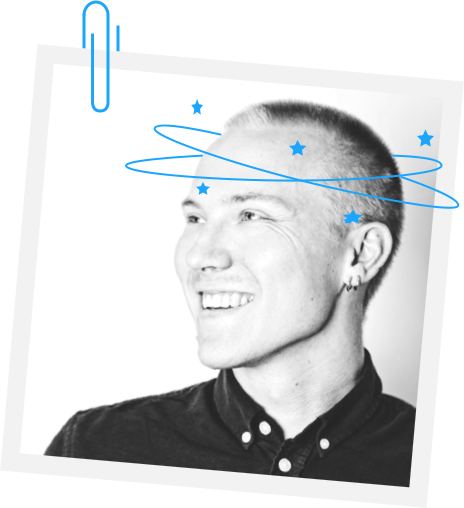
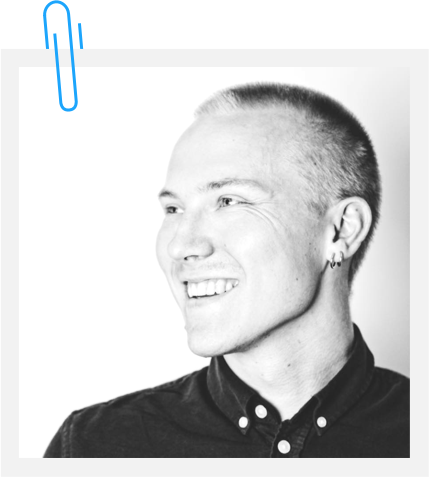
Fixed hero rotation on mobile

diff --git a/resources/css/main.css b/resources/css/main.css
@@ -173,19 +173,21 @@ li {
 /* Hero */
 
 .hero-title {
-  padding-top: 6em;
+  padding-top: 6.5em;
   max-width: 45%;
 }
 
 .hero-image {
-  max-width: 50%;
+  max-width: 45%;
   float: right;
+  transform: rotate(5deg);
 }
 
 
 @media only screen and (max-width: 1125px) {
 
   .hero-title {
+    padding-top: 3.5em;
 
   }
 
@@ -220,7 +222,7 @@ li {
   .hero-image {
     float: none;
     max-width: 100%;
-
+    transform: rotate(0deg);
   }
 
 
